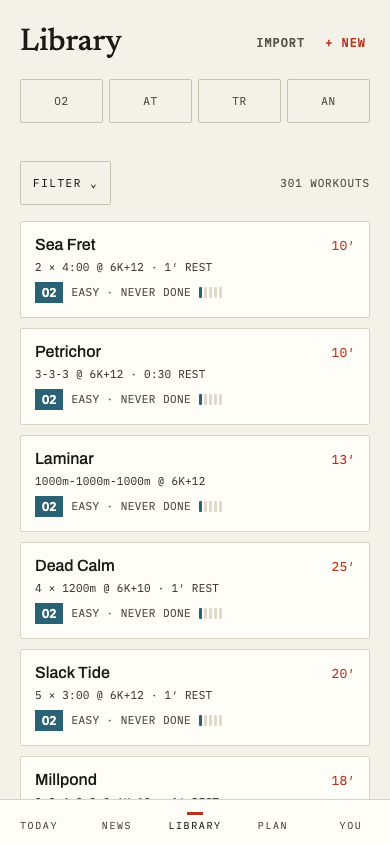
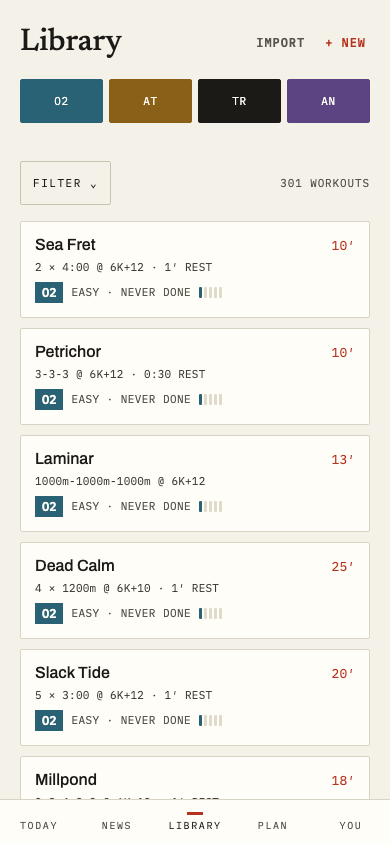
feat: the TYPE chips are all-on by default, and tapping one narrows to it
James: "I'd like them all on by default. When they're all on, if you tap a
single type, the others become deselected. If you deselect the last selected
type -> they turn back on."

An empty `types` now RENDERS as all four selected (isTypeSelected) — 'no type
filter' and 'all types wanted' are the same state, and four blank chips said
the opposite.

Only the all-four normalization needed code. Mutation testing showed the two
explicit branches I first wrote for the all-on tap and the last-deselect were
restatements of an ordinary add/remove toggle — neither could fail a test, so
both are deleted rather than left as decorative intent.

It also exposed that filters.test.ts had been failing to LOAD (a duplicate
import), collecting 0 tests while my gate-reading watched only the 'Tests'
summary line and missed 'Test Files 1 failed'. Fixed; every mutation re-run
against the repaired suite.

Claude-Session: https://claude.ai/code/session_01KY9P1bYNt9uJ4hgTN18TgH

Changed region(s): [[0.0308, 0.0924, 0.9538, 0.154]]

diff --git a/app/src/library/filters.ts b/app/src/library/filters.ts
@@ -58,11 +58,43 @@ export const EMPTY_FILTERS: Filters = {
   source: null,
 };
 
+/** The four types, in the repo's canonical order — the "all on" set. */
+const ALL_TYPES: readonly WorkoutType[] = ["O2", "AT", "TR", "AN"];
+
+/** `types: []` is the canonical ALL-ON state: no narrowing, and every chip
+ *  renders selected (James, 2026-08-12: "I'd like them all on by default").
+ *  A non-empty `types` is always a STRICT subset of 1 to 3 types, never all
+ *  four — `toggleType` normalizes a complete set back to `[]` so there is
+ *  exactly one representation of "all on" and the rules below stay total. */
+export function isTypeSelected(f: Filters, t: WorkoutType): boolean {
+  return f.types.length === 0 || f.types.includes(t);
+}
+
+/** The chip row's whole state machine (James, 2026-08-12):
+ *
+ *  - all on (`[]`) + tap X  -> only X selected. The others deselect.
+ *  - a subset + tap an unselected X -> add it (ordinary multi-select).
+ *  - a subset + tap its LAST selected member -> back to all on, never to a
+ *    selection that matches nothing. "Deselect the last selected type ->
+ *    they turn back on".
+ *  - reaching all four one tap at a time normalizes to `[]`, so the next tap
+ *    follows the all-on rule instead of dropping to three.
+ *
+ *  Only the last of those four needs code: an add/remove toggle plus the
+ *  all-four normalization produces the other three by itself, since `[]`
+ *  never `includes` anything (so a tap while all-on always yields exactly
+ *  `[t]`) and removing the last member yields `[]`, which IS all-on. Two
+ *  explicit early-return branches for those cases were written first and
+ *  deleted after mutation testing showed neither could fail a test: they
+ *  were restatements of the general path, not behaviour. */
 export function toggleType(f: Filters, t: WorkoutType): Filters {
-  const types = f.types.includes(t)
+  const next = f.types.includes(t)
     ? f.types.filter((existing) => existing !== t)
     : [...f.types, t];
-  return { ...f, types };
+  return {
+    ...f,
+    types: next.length === ALL_TYPES.length ? [] : next,
+  };
 }
 
 export function toggleDifficulty(f: Filters, d: Difficulty): Filters {
@@ -98,18 +130,6 @@ export function clearFilters(): Filters {
   return { ...EMPTY_FILTERS };
 }
 
-/** Resets exactly the FILTER SHEET's own groups — DIFFICULTY, TIME, PAIN,
- *  LAST DONE, SOURCE — to empty, leaving `types` (the chip row's own group,
- *  which the sheet holds no control for at all since Task 2) untouched.
- *
- *  Fix round (whole-branch review, finding B): `FilterSheet.tsx`'s own
- *  CLEAR button used to call the plain `clearFilters()` above, silently
- *  emptying `types` too — a group the sheet cannot even show the rower is
- *  about to lose, since it renders no TYPE cell any more. Controller
- *  ruling: CLEAR (inside the sheet) means "clear what's in here"; CLEAR ALL
- *  (`Library.tsx`'s own token-row control, still wired to `clearFilters()`
- *  above, unchanged) remains the one control that empties everything,
- *  `types` included. */
 /** Is ANY filter active? Read this, never `filterTokens(f).length > 0` —
  *  that equivalence broke on 2026-08-12, when TYPE stopped being tokenized
  *  ("already visible": its chip row is the indicator). A type-only filter
@@ -128,6 +148,18 @@ export function hasActiveFilters(f: Filters): boolean {
   );
 }
 
+/** Resets exactly the FILTER SHEET's own groups — DIFFICULTY, TIME, PAIN,
+ *  LAST DONE, SOURCE — to empty, leaving `types` (the chip row's own group,
+ *  which the sheet holds no control for at all since Task 2) untouched.
+ *
+ *  Fix round (whole-branch review, finding B): `FilterSheet.tsx`'s own
+ *  CLEAR button used to call the plain `clearFilters()` above, silently
+ *  emptying `types` too — a group the sheet cannot even show the rower is
+ *  about to lose, since it renders no TYPE cell any more. Controller
+ *  ruling: CLEAR (inside the sheet) means "clear what's in here"; CLEAR ALL
+ *  (`Library.tsx`'s own token-row control, still wired to `clearFilters()`
+ *  above, unchanged) remains the one control that empties everything,
+ *  `types` included. */
 export function clearSheetFilters(f: Filters): Filters {
   return { ...EMPTY_FILTERS, types: f.types };
 }

diff --git a/app/src/library/filters.test.ts b/app/src/library/filters.test.ts
@@ -5,6 +5,7 @@ import {
   applyFilters,
   bucketFor,
   hasActiveFilters,
+  isTypeSelected,
   clearFilters,
   isRecent,
   setLastDone,
@@ -17,7 +18,7 @@ import {
 } from "./filters";
 import type { LibraryWorkout } from "../api/useWorkouts";
 import { LIBRARY_WORKOUTS } from "../../server/seed/library/index";
-import type { Step } from "../../domain/types.js";
+import type { Step, WorkoutType } from "../../domain/types.js";
 
 const baselines = { k2Seconds: 112, k6Seconds: 122 };
 
@@ -374,6 +375,98 @@ describe("hasActiveFilters", () => {
       // Named in the failure via the value itself, since vitest's `expect`
       // takes no message argument.
       expect({ patch, active }).toStrictEqual({ patch, active: true });
+    }
+  });
+});
+
+// James, 2026-08-12: "I'd like them all on by default. When they're all on,
+// if you tap a single type, the others become deselected. If you deselect the
+// last selected type -> they turn back on."
+describe("the TYPE chip state machine", () => {
+  const ALL = ["O2", "AT", "TR", "AN"] as const;
+  const withTypes = (types: readonly WorkoutType[]): Filters => ({
+    ...EMPTY_FILTERS,
+    types: [...types],
+  });
+
+  it("all on by default: an empty selection renders every chip selected", () => {
+    for (const t of ALL) {
+      expect(isTypeSelected(EMPTY_FILTERS, t)).toBe(true);
+    }
+  });
+
+  it("a subset selects exactly its own members", () => {
+    const f = withTypes(["O2", "TR"]);
+    expect(ALL.filter((t) => isTypeSelected(f, t))).toStrictEqual(["O2", "TR"]);
+  });
+
+  it("all on + tap X leaves ONLY X selected", () => {
+    const next = toggleType(EMPTY_FILTERS, "AT");
+    expect(next.types).toStrictEqual(["AT"]);
+    expect(ALL.filter((t) => isTypeSelected(next, t))).toStrictEqual(["AT"]);
+  });
+
+  it("tapping the LAST selected type turns them all back on", () => {
+    const single = withTypes(["AT"]);
+    const next = toggleType(single, "AT");
+    expect(next.types).toStrictEqual([]);
+    for (const t of ALL) {
+      expect(isTypeSelected(next, t)).toBe(true);
+    }
+  });
+
+  it("tapping an unselected type adds it; tapping a selected one of several removes just it", () => {
+    const added = toggleType(withTypes(["O2"]), "TR");
+    expect(added.types).toStrictEqual(["O2", "TR"]);
+    const removed = toggleType(added, "O2");
+    expect(removed.types).toStrictEqual(["TR"]);
+  });
+
+  it("selecting all four one at a time normalizes back to all-on, so the next tap deselects the others", () => {
+    let f: Filters = EMPTY_FILTERS;
+    for (const t of ALL) f = toggleType(f, t);
+    expect(f.types).toStrictEqual([]);
+    expect(toggleType(f, "TR").types).toStrictEqual(["TR"]);
+  });
+
+  it("a full round trip returns to the same state it started in", () => {
+    const there = toggleType(EMPTY_FILTERS, "O2");
+    expect(toggleType(there, "O2")).toStrictEqual(EMPTY_FILTERS);
+  });
+
+  it("all-on narrows nothing, and is not an active filter; a subset is both", () => {
+    expect(applyFilters(WORKOUTS, EMPTY_FILTERS, baselines)).toHaveLength(
+      WORKOUTS.length,
+    );
+    expect(hasActiveFilters(EMPTY_FILTERS)).toBe(false);
+    const subset = withTypes(["O2"]);
+    expect(
+      applyFilters(WORKOUTS, subset, baselines).every((w) => w.type === "O2"),
+    ).toBe(true);
+    expect(hasActiveFilters(subset)).toBe(true);
+  });
+
+  it("never leaves a state that matches nothing: no reachable selection is empty-but-narrowing", () => {
+    // Exhaustive over every start state and every tap.
+    const starts: Filters[] = [
+      EMPTY_FILTERS,
+      ...ALL.map((t) => withTypes([t])),
+      withTypes(["O2", "AT"]),
+      withTypes(["O2", "AT", "TR"]),
+    ];
+    for (const start of starts) {
+      for (const tap of ALL) {
+        const next = toggleType(start, tap);
+        expect({
+          start: start.types,
+          tap,
+          len: next.types.length,
+        }).not.toMatchObject({ len: 4 });
+        const selected = ALL.filter((t) => isTypeSelected(next, t));
+        expect({ start: start.types, tap, selected }).not.toMatchObject({
+          selected: [],
+        });
+      }
     }
   });
 });

diff --git a/app/src/library/Library.test.tsx b/app/src/library/Library.test.tsx
@@ -631,10 +631,10 @@ describe("Library", () => {
 
       const o2 = screen.getByRole("button", { name: "O2" });
       const at = screen.getByRole("button", { name: "AT" });
-      expect(o2).not.toHaveAttribute(
-        "style",
-        expect.stringContaining("--type-o2"),
-      );
+      // All on by default (2026-08-12), so EVERY chip starts filled with its
+      // own colour — the pre-click state is a positive, not a negative.
+      expect(o2).toHaveAttribute("style", expect.stringContaining("--type-o2"));
+      expect(at).toHaveAttribute("style", expect.stringContaining("--type-at"));
       await userEvent.click(o2);
       expect(o2).toHaveAttribute("style", expect.stringContaining("--type-o2"));
       // M-4 (review fix): a bare `not.stringContaining("--type-at")` would
@@ -654,10 +654,23 @@ describe("Library", () => {
       await renderLibrary();
 
       const o2 = screen.getByRole("button", { name: "O2" });
-      expect(o2).toHaveAttribute("aria-pressed", "false");
+      // Starts all-on (2026-08-12): every chip pressed, nothing narrowed.
+      for (const code of ["O2", "AT", "TR", "AN"]) {
+        expect(screen.getByRole("button", { name: code })).toHaveAttribute(
+          "aria-pressed",
+          "true",
+        );
+      }
       await userEvent.click(o2);
 
+      // Tapping one while all are on DESELECTS the others (James's rule).
       expect(o2).toHaveAttribute("aria-pressed", "true");
+      for (const code of ["AT", "TR", "AN"]) {
+        expect(screen.getByRole("button", { name: code })).toHaveAttribute(
+          "aria-pressed",
+          "false",
+        );
+      }
       expect(visibleHrefs()).toStrictEqual(["/library/w-o2"]);
       expect(screen.getByText("1 OF 3 SHOWN")).toBeInTheDocument();
       // No token: the pressed chip already says which type is filtering.
@@ -669,15 +682,22 @@ describe("Library", () => {
     // Carried-forward subject D: exclusivity is correctly dead (multi-select
     // replaces it), but "toggle twice clears it" is not — this pins that
     // toggling the SAME chip off returns to the fully unfiltered list.
-    it("toggling the same chip twice returns to the unfiltered list", async () => {
+    it("deselecting the last selected type turns them ALL back on, unfiltered", async () => {
       mockReady();
       await renderLibrary();
 
       const o2 = screen.getByRole("button", { name: "O2" });
-      await userEvent.click(o2);
-      await userEvent.click(o2);
+      await userEvent.click(o2); // all on -> O2 only
+      await userEvent.click(o2); // O2 was the last selected -> all back on
 
-      expect(o2).toHaveAttribute("aria-pressed", "false");
+      // James's rule: they turn back ON, not all-off (which would be a
+      // filter matching nothing).
+      for (const code of ["O2", "AT", "TR", "AN"]) {
+        expect(screen.getByRole("button", { name: code })).toHaveAttribute(
+          "aria-pressed",
+          "true",
+        );
+      }
       expect(visibleHrefs()).toStrictEqual([
         "/library/w-at",
         "/library/w-o2",
@@ -713,10 +733,14 @@ describe("Library", () => {
 
       await userEvent.click(screen.getByRole("button", { name: "CLEAR ALL" }));
 
-      expect(screen.getByRole("button", { name: "O2" })).toHaveAttribute(
-        "aria-pressed",
-        "false",
-      );
+      // Cleared means back to ALL ON (2026-08-12), not all-off: every chip
+      // pressed again, nothing narrowed.
+      for (const code of ["O2", "AT", "TR", "AN"]) {
+        expect(screen.getByRole("button", { name: code })).toHaveAttribute(
+          "aria-pressed",
+          "true",
+        );
+      }
       expect(
         screen.queryByText("O2", { selector: ".filter-token-label" }),
       ).not.toBeInTheDocument();

diff --git a/app/src/library/Library.tsx b/app/src/library/Library.tsx
@@ -9,6 +9,7 @@ import {
   applyFilters,
   clearFilters,
   hasActiveFilters,
+  isTypeSelected,
   toggleType,
   type Filters,
 } from "./filters";
@@ -320,7 +321,10 @@ export default function Library() {
           on screen tells them these four buttons are a group at all. */}
       <div className="chip-wrap type-chip-grid" role="group" aria-label="TYPE">
         {TYPE_CHIPS.map((type) => {
-          const selected = filters.types.includes(type);
+          // ALL-ON by default: an empty `types` renders every chip selected
+          // (filters.ts's `isTypeSelected`), so at rest the row shows all four
+          // types included rather than four blank chips.
+          const selected = isTypeSelected(filters, type);
           return (
             <button
               key={type}

diff --git a/docs/design/DEVIATIONS.md b/docs/design/DEVIATIONS.md
@@ -95,7 +95,7 @@ here. These are intentional product decisions (spec:
 | N/A — this row deviates from the phone-BLE SPEC (`docs/superpowers/specs/2026-08-10-phone-ble-design.md`), not the handoff: §1 pins, verbatim, "The protocol layer (`driver.ts`, `pm5/*`) does not change", and the plan's Global Constraints repeat it ("driver/pm5 untouched") | The walk fix wave edits the protocol layer: `driver.ts` (the structure gate gains a wall-clock grace window over the PM5's two-step post-program transition; the finish grace emits the run's final split with `finalBoundary: true`), `domain/monitor/types.ts` (`intervalComplete` gains `finalBoundary?: true`), and `monitorRun.ts`/`useMonitorSession.ts` (the bounded acceptance in the next row) | Walk day 1 (2026-08-10, PM5 432331249; wire evidence in `docs/monitor/pm5-interface-notes.md` §21 items 2-4): the phone's fast CCCD setup exposed two driver defects the desktop's slow setup had always masked — a tick-counted mismatch gate the PM5's own ~180ms two-step structure transition could win, and the end-of-workout split race that left the record at 0 measured intervals for its final interval. Both were walk-blocking; §11's own escape clause routes the scope growth through this ledger. The event-union member exists because the record CANNOT distinguish the run's own final boundary from the PM's post-run housekeeping without the driver vouching for it |
 | N/A — this row deviates from the 7B design spec's record rule, not the handoff: writes land only while the record is live — `monitorRun.ts:76`'s own comment quotes "spec §4's 'the record is immutable'" once `completedAt` is stamped | `recordActual` now accepts EXACTLY ONE class of post-completion write: a driver-vouched (`finalBoundary: true`) actual for an interval the record is still missing, bounded five ways — natural finish only (never after a terminate); before the machine's next status sample; only for an index absent from `recordedIndices`; consumed once; the vouching flag is the only key that opens the door | Walk day 1, finding 3: the 0x0031 `finished` tick and the final 0x0037/0x0038 split arrive ~1ms apart and the tick won every race on the phone, so the strict rule discarded the only measurement of the run's last interval — on ALL platforms (7C shipped without a hardware walk; today was its first). The exception is the narrowest write that makes the record TRUE; the alternative (holding the record open until the split arrives) would trade a bounded exception for an unbounded wait on a frame the PM5 is not obligated to send |
 | README.md §4's own screen: a distinct "Confirm targets" step between a workout's detail screen and the countdown — pace nudge arrows, per-step DUR/REPS/SPM steppers, per-row REMOVE/RESTORE, a WARM-UP row with its own recount, and the baselines guard, all living on that one screen | RETIRED WHOLESALE (fast-follow Task 4, 2026-08-11): `ConfirmTargets.tsx` and its route are deleted; `/session/confirm` survives only as a stateless redirect shim (`AppRoutes.tsx`'s `ConfirmRedirect`) for stale deep links and back-swipes — started draft (a `SessionRun` on record) → `/session/run`, a queued draft with no run yet → `/session/countdown`, nothing → `/today`. Per the spec's own fate table (§3): the pace nudge arrows move to the detail card, "now the ONLY nudge surface"; the DUR/REPS/SPM steppers and REMOVE/RESTORE "DIE (ruling 2). Edit is the structural door" (rows 33/34 above, rewritten in place for this); the WARM-UP row and its recount "DIE with the screen (within the approved casualty ruling)" — stated honestly, no pre-session surface shows the warm-up any more, the rower's first warm-up-inclusive total is the session itself; the baselines guard moves to WorkoutDetail's own Start (row 38 above, rewritten in place); the started-draft re-entry bounce becomes the shim's own started arm. Every rewired entry point (`WorkoutDetail`'s Start, `BaselineCard`'s Start, the Connect door's "Row on the phone timer instead") now saves a STARTED, nudged draft and navigates straight to `/session/countdown` | James-approved design, not a bug: spec §2's own ruling list pulls the whole nudge-unification forward, and spec §8 says plainly "the §3 casualty list is a James-approved design, recorded here, not a deviation." Recorded here anyway, against that sentence's letter but not its spirit — this table's own charter is CURRENT state, not history, and rows 33/34/38 above described a screen that no longer exists with nothing anywhere saying so; that reads as false, not merely silent. Added at the bottom per this file's own citation convention ("add new rows only at the BOTTOM of the table") so no row number above this one shifts |
-| N/A — the handoff has no notion of a Library filter control living outside the FILTER sheet at all; every group (TYPE included) was always inside it | Library's own TYPE group left the FILTER sheet entirely for a chip row rendered ABOVE it (`.chip-wrap.type-chip-grid`, four O2/AT/TR/AN buttons, `Library.tsx`) — MULTI-select (`filters.types: WorkoutType[]`, unlike Today's own type-swap chips below, which stay single-select), toggling applies immediately (no draft/Apply round trip, unlike every group still inside the sheet), and its own descriptor word (`TYPE_WORDS`, `.type-word-row`/`.type-word`) renders beneath the row ONLY while exactly one type is selected — zero or several selected types show the row with no word in it, never a shifted layout, since the wrapper stays mounted regardless. DIFFICULTY joined the sheet in TYPE's old slot (`difficulties: Difficulty[]`, the shared `DIFFICULTY_CHIPS`, same empty-means-no-filter convention `durations`/`painLevels` already use). AMENDED 2026-08-12 (James, same round): a selected type contributes **no token** to the row below — "the type shouldn't be added as a tag since it's already visible", the pressed chip in its own colour being the indicator and re-tapping it the way to clear. That retired the token row's only coloured token, so `Token.fill` and `TokenRow`'s `fill` prop went with it, and the count/CLEAR ALL gate moved off the token count onto `filters.ts`'s `hasActiveFilters` (a type-only filter narrows the list while tokenizing nothing, which the old token-derived gate reported as unfiltered) | Library-filter-unification round (2026-08-11), James, from device use: "you can't filter by easy/medium/hard" (DIFFICULTY was never built here — added, not repaired); "I'd like the workout types to be outside of the filter modal, similar to how it is on Today" (TYPE's control moves out, matching Today's own always-visible type-swap row); "I really want this filter experience to feel unified with Today" (the sheet's primary adopts Today's own constant `Apply Filter` + live-count-caption contract, row 12/30 above). TYPE is deliberately MULTI-select here, unlike Today's single-select swap — the two controls answer different questions (Today's chip picks ONE type to swap the day's single suggestion to; Library's chips narrow a whole list to a union of types), a ruling made explicit this round rather than left to be inferred from the different code. The descriptor renders at exactly one selection, not "whenever a type is active," because Library — unlike Today — has a genuine zero-type state (no filter) as well as a genuine multi-type state (several types unioned), neither of which names a single word to show |
+| N/A — the handoff has no notion of a Library filter control living outside the FILTER sheet at all; every group (TYPE included) was always inside it | Library's own TYPE group left the FILTER sheet entirely for a chip row rendered ABOVE it (`.chip-wrap.type-chip-grid`, four O2/AT/TR/AN buttons, `Library.tsx`) — MULTI-select (`filters.types: WorkoutType[]`, unlike Today's own type-swap chips below, which stay single-select), toggling applies immediately (no draft/Apply round trip, unlike every group still inside the sheet), and its own descriptor word (`TYPE_WORDS`, `.type-word-row`/`.type-word`) renders beneath the row ONLY while exactly one type is selected — zero or several selected types show the row with no word in it, never a shifted layout, since the wrapper stays mounted regardless. DIFFICULTY joined the sheet in TYPE's old slot (`difficulties: Difficulty[]`, the shared `DIFFICULTY_CHIPS`, same empty-means-no-filter convention `durations`/`painLevels` already use). AMENDED 2026-08-12 (James, same round): a selected type contributes **no token** to the row below — "the type shouldn't be added as a tag since it's already visible", the pressed chip in its own colour being the indicator and re-tapping it the way to clear. That retired the token row's only coloured token, so `Token.fill` and `TokenRow`'s `fill` prop went with it, and the count/CLEAR ALL gate moved off the token count onto `filters.ts`'s `hasActiveFilters` (a type-only filter narrows the list while tokenizing nothing, which the old token-derived gate reported as unfiltered). AMENDED again 2026-08-12 (James, same round): the row is **ALL ON by default** — an empty `filters.types` renders every chip selected (`filters.ts`'s `isTypeSelected`), since "no type filter" and "all four types wanted" are the same thing and four blank chips said the opposite. Its state machine: all-on + tap X leaves only X (the others deselect); a subset + tap an unselected type adds it; a subset + tap its LAST selected member returns to all-on rather than to a selection matching nothing; and reaching all four one tap at a time normalizes back to `[]` so the next tap follows the all-on rule. Only that normalization needs code — the other three fall out of an ordinary add/remove toggle, which mutation testing proved by killing two explicit branches written for them (neither could fail a test; both deleted) | Library-filter-unification round (2026-08-11), James, from device use: "you can't filter by easy/medium/hard" (DIFFICULTY was never built here — added, not repaired); "I'd like the workout types to be outside of the filter modal, similar to how it is on Today" (TYPE's control moves out, matching Today's own always-visible type-swap row); "I really want this filter experience to feel unified with Today" (the sheet's primary adopts Today's own constant `Apply Filter` + live-count-caption contract, row 12/30 above). TYPE is deliberately MULTI-select here, unlike Today's single-select swap — the two controls answer different questions (Today's chip picks ONE type to swap the day's single suggestion to; Library's chips narrow a whole list to a union of types), a ruling made explicit this round rather than left to be inferred from the different code. The descriptor renders at exactly one selection, not "whenever a type is active," because Library — unlike Today — has a genuine zero-type state (no filter) as well as a genuine multi-type state (several types unioned), neither of which names a single word to show |
 
 **How rows are cited.** "Row N" — here, in code comments, and in test names —
 means the FILE LINE NUMBER of this file, so a citation rots whenever a line
